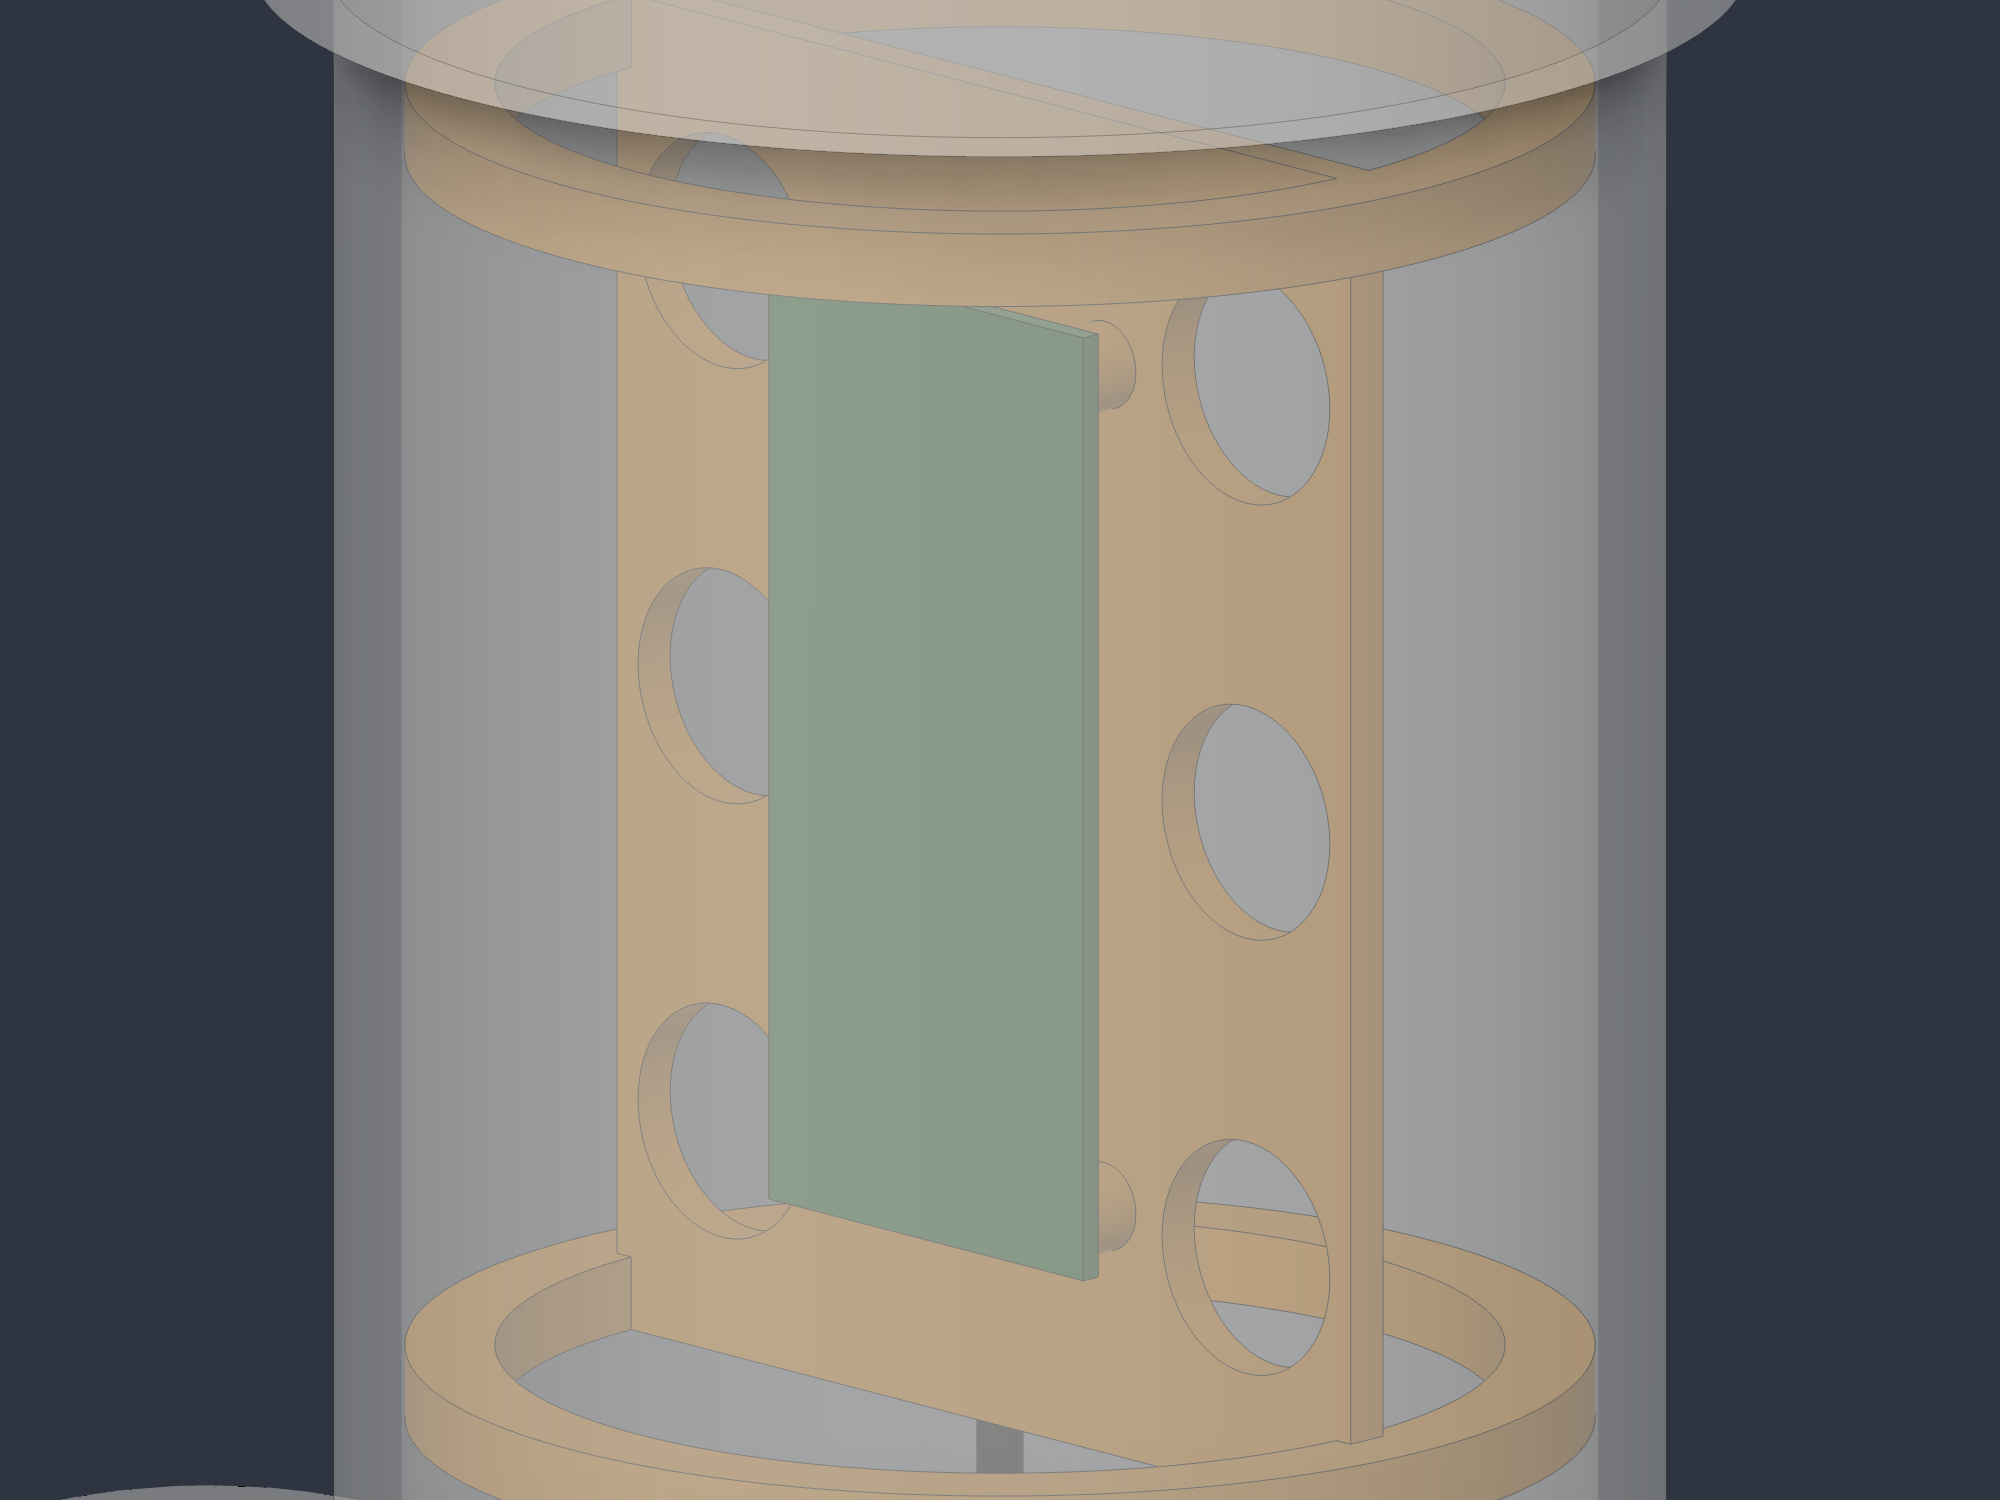
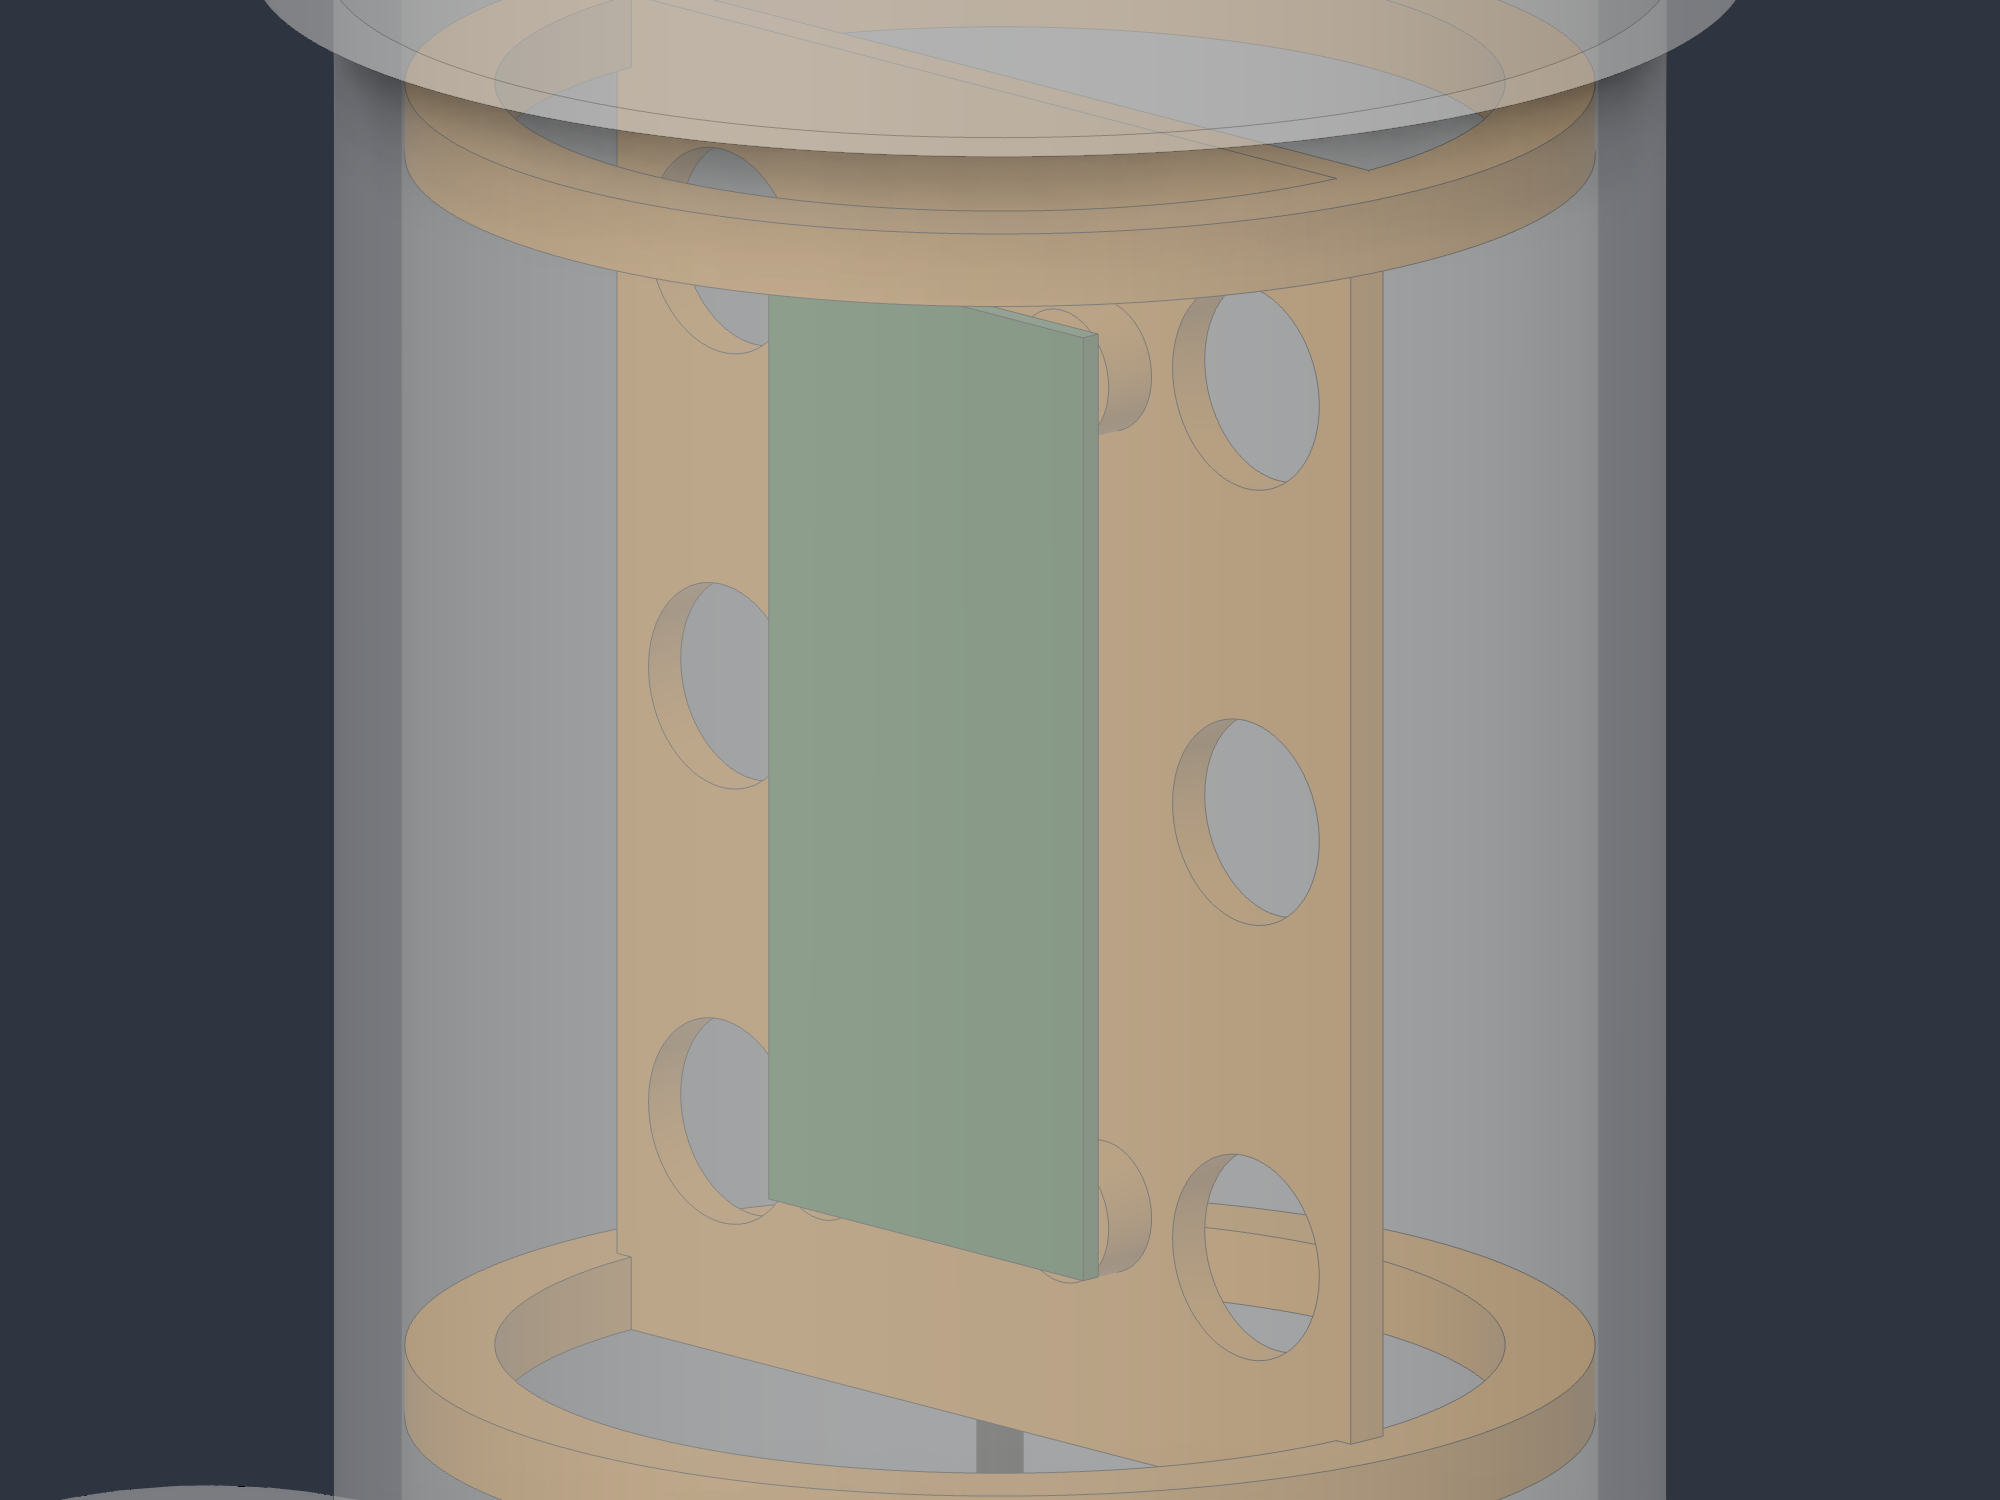
hardware: bore the sled standoffs for M3x3 heat-set inserts
Dimensioned from CNC Kitchen's datasheet for the M3 x 3 short insert -
4.6 body, 3.0 long, 4.0 hole, 4.0 minimum blind depth, 1.6 minimum wall
- rather than from habit.

The boss had to grow 6 -> 9 mm. The wall minimum puts the floor at
7.2 mm measured from the hole or 7.8 mm from the insert body, so a 6 mm
standoff leaves about 0.7 mm and splits as the insert goes in. The
lightening holes came down 16 -> 14 mm to keep clear of the wider
bosses.

build_pi_sled now asserts the wall rule and the remaining floor instead
of trusting them, so a later edit that narrows the boss or shortens the
standoff fails at build time rather than yielding a part that fails on
assembly.

Also documents sourcing for the stainless mesh, including the trap that
big-box hardware cloth is galvanised and will rust-streak the PVC and
eventually tear the membrane it is meant to support.

Claude-Session: https://claude.ai/code/session_01KBwUcRoQgC2qoPoadKhhvs

diff --git a/hardware/mic-housing/fusion_build.py b/hardware/mic-housing/fusion_build.py
@@ -677,11 +677,23 @@ SLED = {
     "sled_clear": 0.4,      # press fit against the run bore
     "spine_thick": 3.0,
     "spine_half": 35.0,     # overlaps the ribs' inner radius so the JOIN welds
-    "lighten_dia": 16.0,
+    "lighten_dia": 14.0,
     "lighten_x": 25.0,      # outboard of the 30 mm board and its standoffs
     "lighten_pitch": 30.0,
+    # CNC Kitchen "Heat Set Insert M3 x 3, short version". Off their datasheet:
+    # 4.6 body diameter, 3.0 long, 4.0 recommended hole, 4.0 minimum blind-hole
+    # depth, 1.6 minimum wall.
+    "insert_len": 3.0,
+    "insert_od": 4.6,
+    "insert_hole_dia": 4.0,
+    "insert_min_depth": 4.0,  # datasheet minimum for a blind hole
+    "insert_min_wall": 1.6,
+    "insert_floor": 2.0,      # plastic left under the bore
+    # Boss diameter is checked against the wall rule at build time rather than
+    # trusted. 9.0 clears both readings of it: 4.0 + 2*1.6 = 7.2 from the hole,
+    # 4.6 + 2*1.6 = 7.8 from the insert body.
     "standoff": 4.0,
-    "standoff_dia": 6.0,
+    "standoff_dia": 9.0,
 }
 
 
@@ -759,7 +771,9 @@ def build_pi_sled(root):
     ex.add(ei)
 
     # Standoffs, on the +Z face only. The board hangs off one side; the other
-    # side stays clear so air is not funnelled through a 4 mm slot.
+    # side stays clear so air is not funnelled through a narrow slot. They are
+    # tall enough that a blind insert hole still leaves a floor: standoff +
+    # spine = 7 mm of material against a 4 mm bore.
     hsk = comp.sketches.add(comp.xYConstructionPlane)
     for sx in (-1, 1):
         for sy in (-1, 1):
@@ -772,6 +786,35 @@ def build_pi_sled(root):
         posts.add(prof)
     ei = ex.createInput(posts, JOIN)
     ei.setDistanceExtent(False, vi(s["spine_thick"] / 2.0 + s["standoff"]))
+    ex.add(ei)
+
+    # Blind bores for the heat-set inserts, cut down from the standoff faces.
+    wall = (s["standoff_dia"] - s["insert_od"]) / 2.0
+    if wall < s["insert_min_wall"]:
+        raise RuntimeError(
+            "boss wall %.2f mm is under the %.2f mm minimum; widen standoff_dia"
+            % (wall, s["insert_min_wall"]))
+    hole_depth = max(s["insert_len"] + 1.0, s["insert_min_depth"])
+    top_z = s["spine_thick"] / 2.0 + s["standoff"]
+    depth_available = s["standoff"] + s["spine_thick"]
+    if hole_depth + s["insert_floor"] > depth_available:
+        raise RuntimeError(
+            "insert bore %.1f + floor %.1f exceeds %.1f mm of material; raise "
+            "standoff" % (hole_depth, s["insert_floor"], depth_available))
+
+    top = offset_plane(comp, comp.xYConstructionPlane, top_z)
+    bsk = comp.sketches.add(top)
+    for sx in (-1, 1):
+        for sy in (-1, 1):
+            bsk.sketchCurves.sketchCircles.addByCenterRadius(
+                pt(x_run + sx * s["pi_hole_dy"] / 2.0,
+                   y_mid + sy * s["pi_hole_dx"] / 2.0, 0),
+                mm(s["insert_hole_dia"] / 2.0))
+    bores = adsk.core.ObjectCollection.create()
+    for prof in bsk.profiles:
+        bores.add(prof)
+    ei = ex.createInput(bores, CUT)
+    ei.setDistanceExtent(False, vi(-hole_depth))
     ex.add(ei)
 
     if comp.bRepBodies.count != 1:

diff --git a/hardware/mic-housing/parts/07_pi_sled.py b/hardware/mic-housing/parts/07_pi_sled.py
@@ -14,11 +14,23 @@ SLED = {
     "sled_clear": 0.4,      # press fit against the run bore
     "spine_thick": 3.0,
     "spine_half": 35.0,     # overlaps the ribs' inner radius so the JOIN welds
-    "lighten_dia": 16.0,
+    "lighten_dia": 14.0,
     "lighten_x": 25.0,      # outboard of the 30 mm board and its standoffs
     "lighten_pitch": 30.0,
+    # CNC Kitchen "Heat Set Insert M3 x 3, short version". Off their datasheet:
+    # 4.6 body diameter, 3.0 long, 4.0 recommended hole, 4.0 minimum blind-hole
+    # depth, 1.6 minimum wall.
+    "insert_len": 3.0,
+    "insert_od": 4.6,
+    "insert_hole_dia": 4.0,
+    "insert_min_depth": 4.0,  # datasheet minimum for a blind hole
+    "insert_min_wall": 1.6,
+    "insert_floor": 2.0,      # plastic left under the bore
+    # Boss diameter is checked against the wall rule at build time rather than
+    # trusted. 9.0 clears both readings of it: 4.0 + 2*1.6 = 7.2 from the hole,
+    # 4.6 + 2*1.6 = 7.8 from the insert body.
     "standoff": 4.0,
-    "standoff_dia": 6.0,
+    "standoff_dia": 9.0,
 }
 
 
@@ -96,7 +108,9 @@ def build_pi_sled(root):
     ex.add(ei)
 
     # Standoffs, on the +Z face only. The board hangs off one side; the other
-    # side stays clear so air is not funnelled through a 4 mm slot.
+    # side stays clear so air is not funnelled through a narrow slot. They are
+    # tall enough that a blind insert hole still leaves a floor: standoff +
+    # spine = 7 mm of material against a 4 mm bore.
     hsk = comp.sketches.add(comp.xYConstructionPlane)
     for sx in (-1, 1):
         for sy in (-1, 1):
@@ -109,6 +123,35 @@ def build_pi_sled(root):
         posts.add(prof)
     ei = ex.createInput(posts, JOIN)
     ei.setDistanceExtent(False, vi(s["spine_thick"] / 2.0 + s["standoff"]))
+    ex.add(ei)
+
+    # Blind bores for the heat-set inserts, cut down from the standoff faces.
+    wall = (s["standoff_dia"] - s["insert_od"]) / 2.0
+    if wall < s["insert_min_wall"]:
+        raise RuntimeError(
+            "boss wall %.2f mm is under the %.2f mm minimum; widen standoff_dia"
+            % (wall, s["insert_min_wall"]))
+    hole_depth = max(s["insert_len"] + 1.0, s["insert_min_depth"])
+    top_z = s["spine_thick"] / 2.0 + s["standoff"]
+    depth_available = s["standoff"] + s["spine_thick"]
+    if hole_depth + s["insert_floor"] > depth_available:
+        raise RuntimeError(
+            "insert bore %.1f + floor %.1f exceeds %.1f mm of material; raise "
+            "standoff" % (hole_depth, s["insert_floor"], depth_available))
+
+    top = offset_plane(comp, comp.xYConstructionPlane, top_z)
+    bsk = comp.sketches.add(top)
+    for sx in (-1, 1):
+        for sy in (-1, 1):
+            bsk.sketchCurves.sketchCircles.addByCenterRadius(
+                pt(x_run + sx * s["pi_hole_dy"] / 2.0,
+                   y_mid + sy * s["pi_hole_dx"] / 2.0, 0),
+                mm(s["insert_hole_dia"] / 2.0))
+    bores = adsk.core.ObjectCollection.create()
+    for prof in bsk.profiles:
+        bores.add(prof)
+    ei = ex.createInput(bores, CUT)
+    ei.setDistanceExtent(False, vi(-hole_depth))
     ex.add(ei)
 
     if comp.bRepBodies.count != 1:

diff --git a/docs/outdoor-deployment.md b/docs/outdoor-deployment.md
@@ -31,7 +31,9 @@ past ~5 m on a line-level mic pick up noise.
 | 1 | 1½" PVC DWV 90° street elbow | ~$3 | Any hardware store. The mic housing. |
 | 1 | Furry windjammer for lav capsule | ~$20 | Røde MiniFur-Lav or Bubblebee Windbubble. Matters more than the housing. |
 | 4 | GORE GAW112 acoustic vent | $10/set | [GroupGets][groupgets], sold as AudioMoth spares. |
-| 1 | Stainless mesh + ePTFE membrane | ~$10 | Mouth closure; mesh backs the membrane. |
+| 1 | 12" x 12" sheet, 12-mesh T-304 stainless | ~$12 | Covers all three screened points. **Not** galvanised hardware cloth. |
+| 1 | ePTFE membrane | ~$10 | Mouth closure, outboard of the mesh. |
+| 4 | CNC Kitchen M3 x 3 short heat-set inserts | ~$1 | Pi mounting in the sled. |
 | 1 | Conduit strap or hose clamp | ~$2 | Soffit mount. |
 | — | Exterior latex primer + light paint | ~$0 | PVC chalks under UV; light colour cuts solar gain. |
 
@@ -131,6 +133,52 @@ And a membrane can ice over in a glaze event or load up with pollen, which is th
 mode that actually takes a station offline. Treat it as a service item, replaced each
 spring, and keep the capsule vent as the one barrier with a known specification.
 
+### Sourcing the stainless mesh
+
+A terminology trap first: **"12 mesh" means 12 openings per inch**, while "12×12" in a
+listing may instead mean a 12-inch square sheet. Listings often say both. You want a
+12-inch sheet of roughly 12-mesh material.
+
+One **12" × 12" sheet of 12-mesh T-304**, ~0.023" wire, ~1.5 mm openings, covers every
+place mesh appears in this build and leaves spares:
+
+| Where | Piece | Why this mesh |
+|-------|-------|---------------|
+| Mic mouth, behind the membrane | ⌀41 mm disc | Fine enough to stop the membrane bulging, ~60% open so it costs almost nothing acoustically |
+| Under the mushroom cap | ⌀89 mm disc | Stops wasps and mice at the vent |
+| Inside the drain cap | ⌀89 mm disc | Same, and coarse enough to keep draining |
+
+Sources, in order of fuss: [Amazon][meshamzn] or [eBay][meshebay] for a ~$10-15 sheet;
+[McMaster-Carr][meshmcm] if you want the alloy documented; [TWP Inc][meshtwp], who will
+laser-cut it to size; [OnlineMetals][meshom] for custom cuts.
+
+**Do not use hardware cloth from a big-box store.** It is galvanised, not stainless. It is
+the obvious thing to grab, and it will rust and streak down your white PVC within a couple
+of winters - and rust-jacking eventually tears the membrane it is supposed to support. Most
+big-box "insect screen" is aluminium or fibreglass. If the label does not say 304 or 316,
+it is neither.
+
+304 is fine under an eave. Choose 316 only near the coast or a heavily salted road.
+
+Three practical notes:
+
+- Cut with tin snips and **deburr**. The cut ends are sharp enough to perforate the ePTFE
+  membrane they sit against.
+- **Never clamp stainless against aluminium** in a wet joint - that is a galvanic cell and
+  the aluminium loses. Stainless hose clamps are correct.
+- At the mouth the mesh goes **inboard** of the membrane: membrane outside shedding water,
+  mesh behind taking the load.
+
+The mesh is **not in the Fusion model** - at this scale it would render as a solid disc and
+mislead more than it informs, so it appears in the line drawings only. If you are working
+from the renders when you assemble, that is the piece that is missing.
+
+[meshamzn]: https://www.amazon.com/Quality-Stainless-Steel-Mesh-Screen/dp/B07RC5YQZ8
+[meshebay]: https://www.ebay.com/itm/293071536728
+[meshmcm]: https://www.mcmaster.com/products/304-stainless-steel-wire-cloth/
+[meshtwp]: https://www.twpinc.com/12-mesh-t304-stainless-023-wire-dia
+[meshom]: https://www.onlinemetals.com/en/buy/stainless-steel/12x12-mesh-0-023-wire-diameter-stainless-steel-woven-wire-mesh-304/pid/mp-00002031
+
 ### Why a rigid cap fails
 
 It is tempting to cap the elbow with a printed disc carrying a few acoustic vents. Don't.
@@ -165,6 +213,27 @@ Printing is worth it, for holders rather than covers:
 - **Retainer ring** that press-fits the bore and clamps the membrane and its mesh
   backing, trapping the membrane's turned-up edge against the bore wall.
 - **Drip lip** extending the mouth 10-15 mm against wind-driven rain.
+
+**Heat-set inserts for the Pi.** The sled's standoffs are bored for
+[CNC Kitchen M3 x 3 short inserts][inserts] rather than tapped or self-tapped, so the
+board can come off as many times as servicing needs without chewing out the plastic.
+Their datasheet gives 4.6 mm body, 3.0 mm long, 4.0 mm recommended hole, 4.0 mm minimum
+blind depth, 1.6 mm minimum wall. From that:
+
+- **4.0 mm hole.** Model it at 4.0 even though it will measure nearer 3.8 off the bed -
+  the nozzle over-extrudes on tight curves, and that shortfall is exactly what the
+  insert grips.
+- **9 mm boss**, not the 6 mm a bare standoff would be. The 1.6 mm wall minimum puts the
+  floor at 7.2 mm measured from the hole, or 7.8 mm measured from the 4.6 mm body; 6 mm
+  leaves about 0.7 mm and splits as the insert goes in.
+- **4 mm blind bore**, the datasheet minimum, into 7 mm of standoff-plus-spine - a 3 mm
+  floor underneath. Nothing breaks through the back of the plate.
+
+The build checks the wall rule and the floor rather than trusting them, so narrowing the
+boss or shortening the standoff fails loudly instead of producing a part that splits on
+assembly. Swapping insert size is one parameter (`insert_len`); everything else follows.
+
+[inserts]: https://cnckitchen.store/products/heat-set-insert-m3-x-3-short-version-100-pieces
 
 Print in **ASA**. PLA's glass transition is ~60 °C and a dark part in July sun will pass
 it, quite apart from having no UV life; PETG is an acceptable second with some yellowing.

diff --git a/hardware/mic-housing/PROGRESS.md b/hardware/mic-housing/PROGRESS.md
@@ -50,7 +50,7 @@ fitting. Parts 2-5 are unaffected; they live in the branch bore regardless.
 | Part | File | Evidence |
 |---|---|---|
 | PVC 3x3x1-1/2 reducing tee | `06_tee.py` | 373558 mm3, one body, bbox x[-28.08, 166.6] y[0, 300] z[+-44.45]. The x and y minima are the checks that matter: -28.08 is exactly the 56.16 hub radius, and y=0 means the mouth survived the socket cut. |
-| Pi sled | `07_pi_sled.py` | One welded body, 29901 mm3, bbox x[82.47, 161.83] y[175, 267] z[+-39.68]. Two ribs at 79.36 press-fit the 79.76 bore; six 16 mm lightening cutouts. |
+| Pi sled | `07_pi_sled.py` | One welded body, 31114 mm3, bbox x[82.47, 161.83] y[175, 267] z[+-39.68]. Two ribs at 79.36 press-fit the 79.76 bore; six 14 mm lightening cutouts; four 9 mm bosses bored 4.0 x 4.0 for CNC Kitchen M3 x 3 short heat-set inserts. Volume moved 29901 -> 31114 = +365 for the larger bosses net of their bores, +848 from shrinking the lightening holes 16 -> 14 to clear them. |
 | Pi board | `07_pi_sled.py` | Reference. 2730 mm3 = 65 x 30 x 1.4 exactly, standing off the spine at z 5.5..6.9. |
 | Mushroom vent cap | `08_caps.py` | Purchased, modelled. 121328 mm3, one body, bbox y[275, 339] x[66.15, 178.15] = the 112 crown centred on the run axis. Skirt clamps the pipe, crown stands off on three posts so air exits radially. |
 | Drain cap | `08_caps.py` | Purchased, modelled. 151064 mm3, bbox y[25, 95]. Slips 25 mm over the pipe end at y=70; eight 8 mm drain holes on a 28 radius plus a centre pass-through for the cable. |
@@ -165,6 +165,11 @@ Fusion 2704.1.36.
   Yellow|Blue|Red)`, `Plastic - Matte (same set + Gray)`, `Plastic - Translucent
   Matte (White|Gray|Green|Red|Blue)`, `Aluminum - Anodized Glossy (Grey|Blue|
   Red)`, `Paint - Enamel Glossy (...)`. There is still no "PVC".
+* Heat-set inserts are dimensioned from the supplier datasheet, not from habit.
+  CNC Kitchen M3 x 3 short: 4.6 body, 3.0 long, 4.0 hole, 4.0 minimum blind
+  depth, 1.6 minimum wall. `build_pi_sled` asserts both the wall rule and the
+  floor, so narrowing the boss or shortening the standoff fails at build time
+  rather than producing a part that splits on assembly.
 * `set_visible` matches fragments as **substrings**, so they need care:
   `"capsule"` also hides the capsule *holder*. Use `"lav capsule"`.
 
